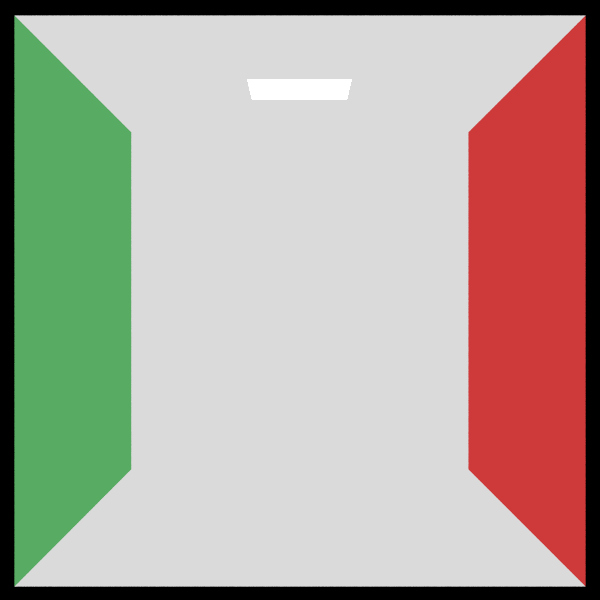
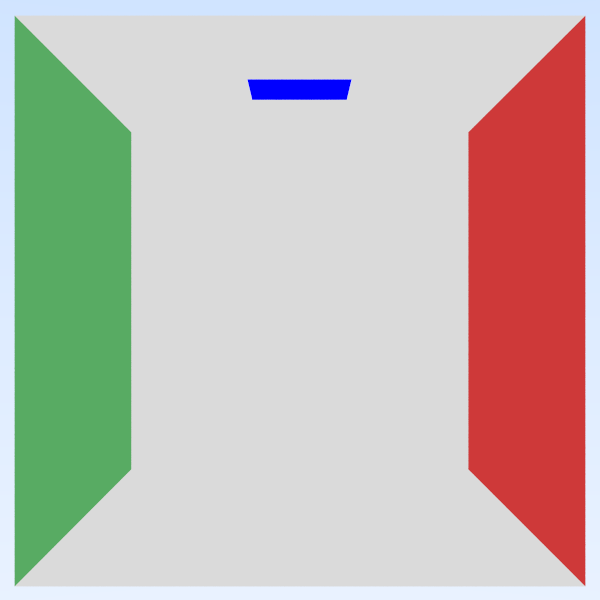
Implemented volumes

Changed region(s): [[0.0, 0.0, 1.0, 1.0], [0.39, 0.12, 0.6, 0.18]]

diff --git a/Assets/Hittables/ConstantMedium.cs b/Assets/Hittables/ConstantMedium.cs
@@ -1,0 +1,51 @@
+using System.Collections;
+using System.Collections.Generic;
+using UnityEngine;
+
+public struct ConstantMedium : IHittable
+{
+    private IHittable boundary;
+    private Material phaseFunction;
+    private float negInvDensity;
+
+    private Unity.Mathematics.Random rand;
+
+    public bool Hit(Ray ray, float tMin, float tMax, HitRecord rec){
+        HitRecord rec1 = new HitRecord();
+        HitRecord rec2 = new HitRecord();
+
+        if (!boundary.Hit(ray, Mathf.NegativeInfinity, Mathf.Infinity, rec1)) return false;
+        if (!boundary.Hit(ray, rec1.t + 0.0001f, Mathf.Infinity, rec2)) return false;
+
+        if (rec1.t < tMin) rec1.t = tMin;
+        if (rec2.t > tMax) rec2.t = tMax;
+
+        if (rec1.t >= rec2.t) return false;
+
+        if (rec1.t < 0f) rec1.t = 0f;
+
+        float rayLength = ray.dir.magnitude;
+        float distanceInsideBoundary = (rec2.t - rec1.t) * rayLength;
+        float hitDistance = negInvDensity * Mathf.Log(rand.NextFloat(0f, 1f));
+
+        if (hitDistance > distanceInsideBoundary) return false;
+
+        rec.t = rec1.t + hitDistance / rayLength;
+        rec.pos = ray.At(rec.t);
+        rec.normal = Vector3.right; // arbitrary
+        rec.frontFace = true; // arbitrary
+        rec.mat = phaseFunction;
+        
+        return true;
+    }
+    public bool BoundingBox(out AABB outputBox){
+        return boundary.BoundingBox(out outputBox);
+    }
+
+    public ConstantMedium(IHittable boundary, float density, Material phaseFunction, uint randSeed){
+        this.boundary = boundary;
+        this.negInvDensity = -1f / density;
+        this.phaseFunction = phaseFunction;
+        rand = new Unity.Mathematics.Random(randSeed);
+    }
+}

diff --git a/Assets/PathTracer.cs b/Assets/PathTracer.cs
@@ -135,11 +135,11 @@ public class PathTracer : MonoBehaviour
         Lambertian red   = new Lambertian(new Vector3(0.65f, 0.05f, 0.05f));
         Lambertian white = new Lambertian(new Vector3(0.73f, 0.73f, 0.73f));
         Lambertian green = new Lambertian(new Vector3(0.12f, 0.45f, 0.15f));
-        DiffuseLight light = new DiffuseLight(new Vector3(15f, 15f, 15f));
+        DiffuseLight light = new DiffuseLight(new Vector3(7f, 7f, 7f));
 
         objects.Add(new YZRect(0, 555, 0, 555, 555, green));
         objects.Add(new YZRect(0, 555, 0, 555, 0, red));
-        objects.Add(new XZRect(213, 343, 227, 332, 554, light));
+        objects.Add(new XZRect(113, 443, 127, 432, 554, light));
         objects.Add(new XZRect(0, 555, 0, 555, 0, white));
         objects.Add(new XZRect(0, 555, 0, 555, 555, white));
         objects.Add(new XYRect(0, 555, 0, 555, 555, white));
@@ -147,12 +147,13 @@ public class PathTracer : MonoBehaviour
         IHittable box1 = new Box(new Vector3(0, 0, 0), new Vector3(165, 330, 165), white);
         box1 = new RotateY(box1, 15);
         box1 = new Translate(box1, new Vector3(265,0,295));
-        objects.Add(box1);
 
         IHittable box2 = new Box(new Vector3(0,0,0), new Vector3(165,165,165), white);
         box2 = new RotateY(box2, -18);
         box2 = new Translate(box2, new Vector3(130,0,65));
-        objects.Add(box2);
+
+        objects.Add(new ConstantMedium(box1, 0.01f, new Isotropic(Vector3.zero), (uint)Random.Range(1, 5000)));
+        objects.Add(new ConstantMedium(box2, 0.01f, new Isotropic(Vector3.one), (uint)Random.Range(1, 5000)));
         return objects;
     }
     private void SaveToPNG(){

diff --git a/Assets/ThreadingUtils/RenderThread.cs b/Assets/ThreadingUtils/RenderThread.cs
@@ -66,8 +66,8 @@ public class RenderThread
     private Vector3 SampleSkyBox(Ray ray){
         Vector3 unitDir = ray.dir.normalized;
         float t = 0.5f*(unitDir.y + 1f);
-        return (1f - t) * new Vector3(1f, 1f, 1f) + t * new Vector3(0.5f, 0.7f, 1f);
-        //return Vector3.zero;
+        //return (1f - t) * new Vector3(1f, 1f, 1f) + t * new Vector3(0.5f, 0.7f, 1f);
+        return Vector3.zero;
     }
     private void WriteColor(uint x, uint y, Vector3 color){
         color = (color / (float)samples).SqrtdComps().Clamped();

diff --git a/Assets/Materials/Isotropic.cs b/Assets/Materials/Isotropic.cs
@@ -1,0 +1,17 @@
+using System.Collections;
+using System.Collections.Generic;
+using UnityEngine;
+
+public class Isotropic : Material
+{
+    private Vector3 albedo;
+
+    public override bool Scatter(Ray rayIn, HitRecord rec, out Vector3 attenuation, out Ray scattered){
+        scattered = new Ray(rec.pos, Vector3Extensions.RandomInUnitSphere());
+        attenuation = albedo;
+        return true;
+    }
+    public Isotropic(Vector3 albedo){
+        this.albedo = albedo;
+    }
+}
